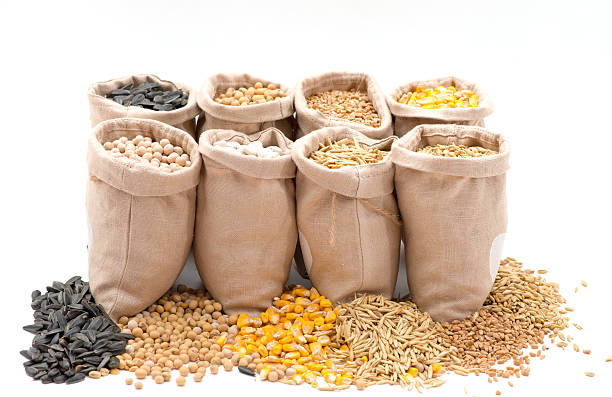
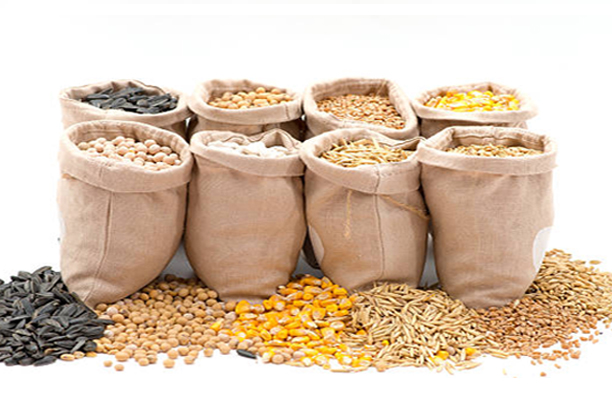
image size

diff --git a/public/style.css b/public/style.css
@@ -525,7 +525,7 @@ body {
 
 .content3 img {
     width: 100%;
-    height: 300px;
+    height: 100%;
     box-shadow: 0 14px 28px rgba(0, 0, 0, 0.25), 0 10px 10px rgba(0, 0, 0, 0.22);
 }
 
